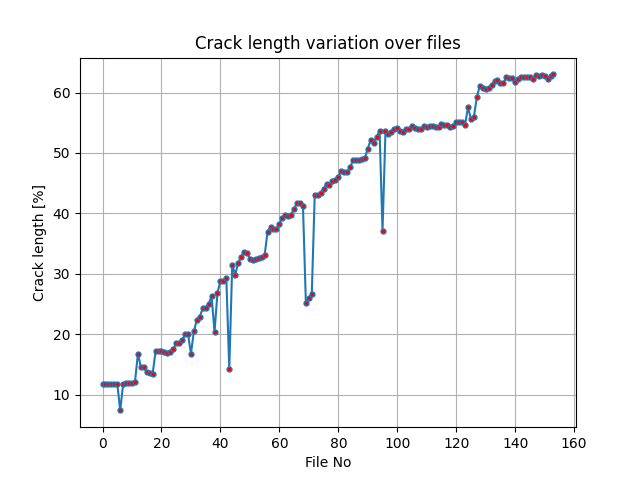
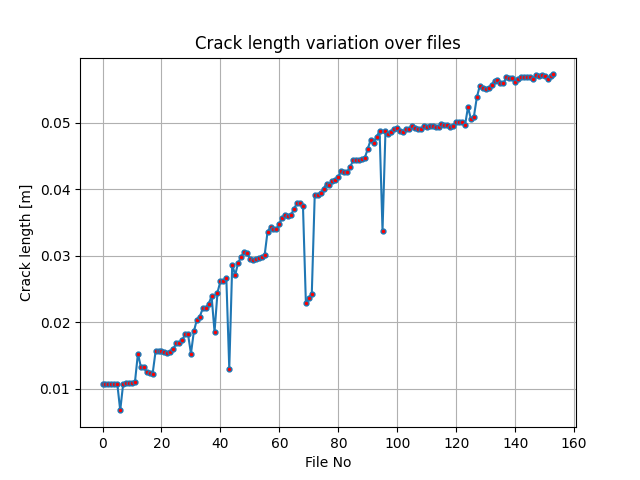
Converted pixels to meters

diff --git a/image_processing.py b/image_processing.py
@@ -5,6 +5,9 @@ import matplotlib.pyplot as plt
 from natsort import natsorted
 import time
 start_time = time.time()
+one_cm = 11 # [pixels]
+one_pixel = 1 / one_cm # [cm]
+one_pixel_m = one_pixel/100 # [m] 
 
 dir_path = 'C:\\Users\\boram\\OneDrive\\2nd Year\\Test, Analysis and Simulation\\Code\\Test-Analysis-and-Simulation\\A1'  # Change the directory path
 file_start_no = 0
@@ -76,7 +79,7 @@ fail2_fail_no = []
 crack_lengths = []
 def crack_length(type, file_no):
     image_name = 'a1_{}_{}.bmp'.format(type, file_no) # Access to the image
-    image = cv2.imread(dir_path+ '\\'+image_name)
+    image = cv2.imread(dir_path+ '\\' + image_name)
     image = cv2.resize(image, (width, height)) # Resize it so you can display it on your pc
 
     # Grayscale
@@ -138,6 +141,7 @@ def crack_length(type, file_no):
     # -1 signifies drawing all contours
     # cv2.drawContours(image, contours, -1, (0, 255, 0), 3)
     
+    # Method 2 for getting the horizontal position of final crack point
     index = 0
     points = []
     indices_points = []
@@ -163,7 +167,7 @@ def crack_length(type, file_no):
 
     # If first method fails to get it right, use the second method's result
     # The problem with the second method is that it might be underestimating the crack position
-    # I think first method works better, but it fails under specific conditions
+    # I think first method works better, but it fails under specific conditions such as when the structure is not straight (bended downwards)
     crack_pos = []
     if crack_pos1[0] >= int(0.9*width) and not (crack_pos2 == np.zeros(2)).any():
         crack_pos = crack_pos2
@@ -272,10 +276,11 @@ print("First method's result is not in the neighborhood of the contour with the 
 print('First method failure files: ', fail1_fail_no)
 print('Second method failure files: ', fail2_fail_no)
 
+crack_lengths_np = np.array(crack_lengths) * one_pixel_m
 plt.figure()
-plt.plot(files_list, crack_lengths, marker = '.', markerfacecolor = 'red', markersize = 7)
+plt.plot(files_list, crack_lengths_np, marker = '.', markerfacecolor = 'red', markersize = 7)
 plt.xlabel('File No')
-plt.ylabel('Crack length [%]')
+plt.ylabel('Crack length [m]')
 plt.title('Crack length variation over files')
 plt.grid()
 plt.savefig('A1\\Crack_length_in_each_file.png')
